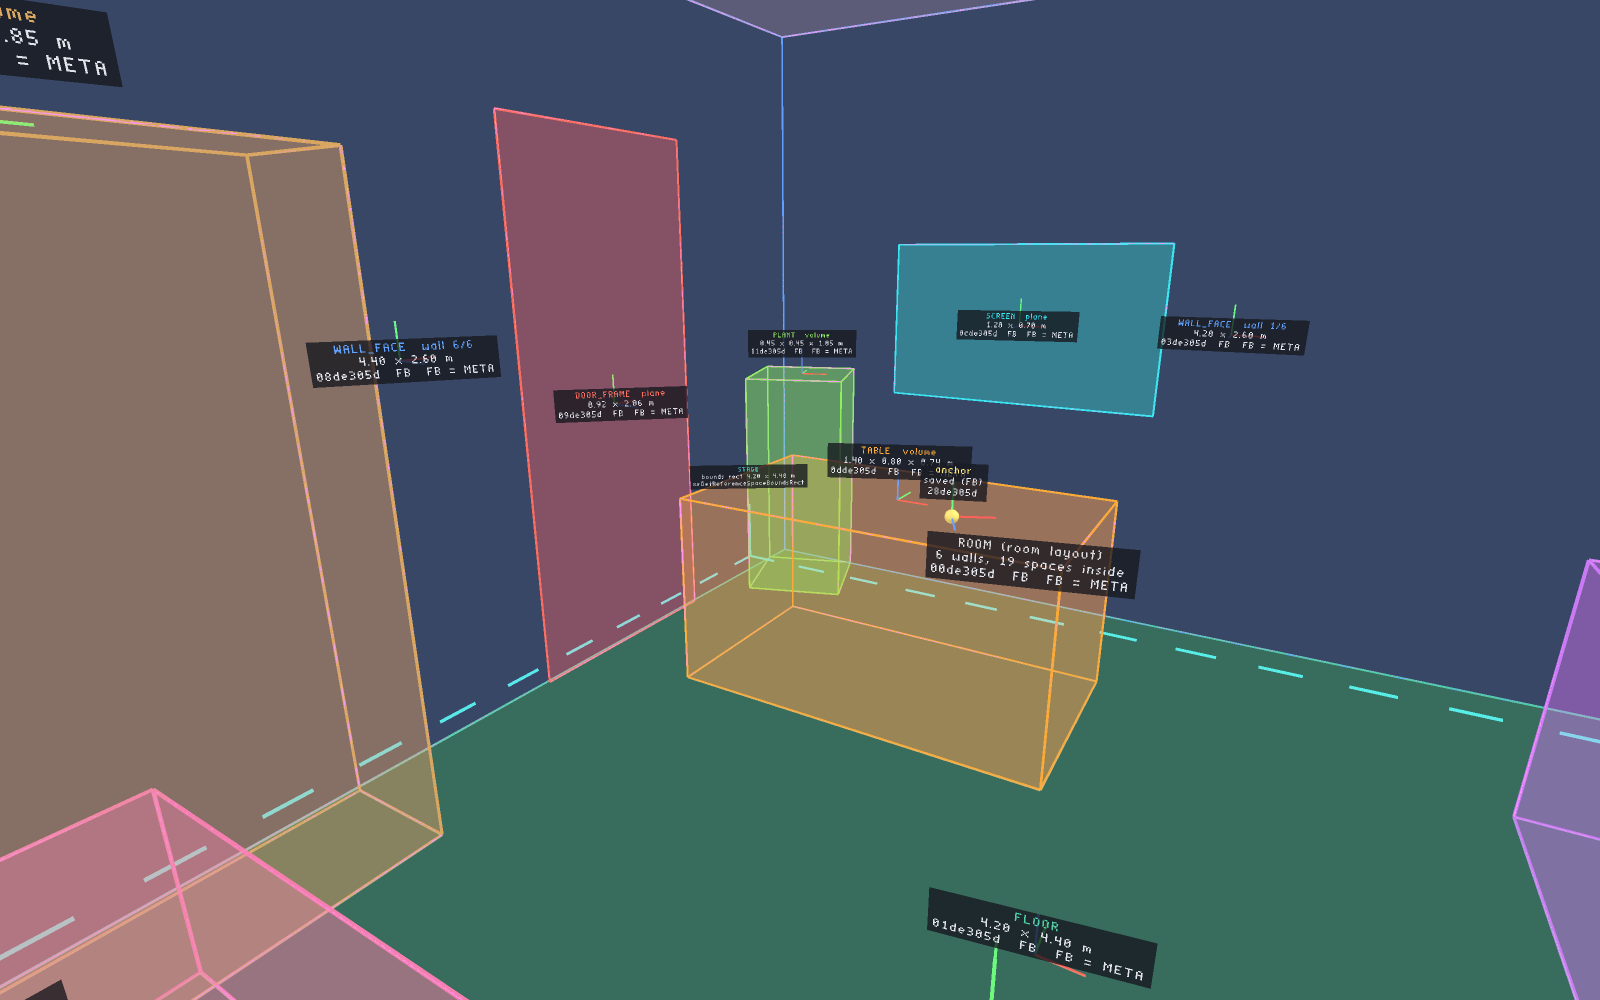
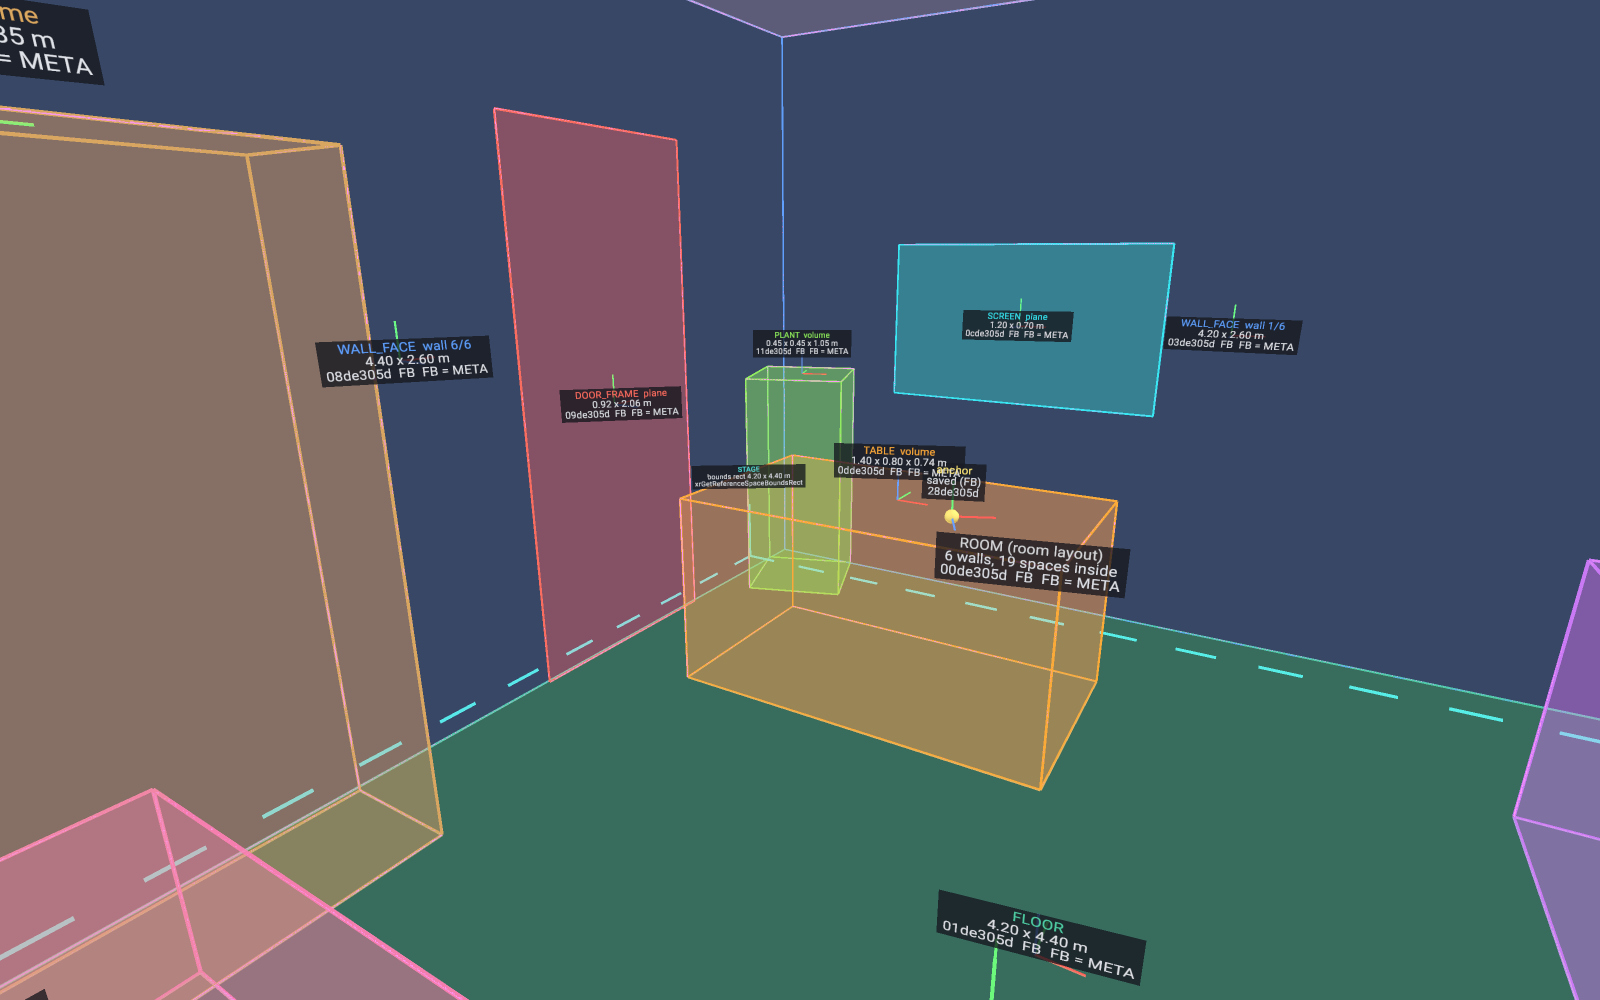
Screenshots with the new panel and the opacity sliders; README

diff --git a/tools/screenshots.py b/tools/screenshots.py
@@ -13,6 +13,7 @@ from PIL import Image
 ROOT = Path(__file__).resolve().parents[1]
 SHOTS = {
     "room": "room",          # inside the room, with the panel
+    "opacity": "opacity",    # dragging the room overlay's opacity slider
     "overview": "overview",  # the whole room, no panel
     "fb-meta": "both",       # FB results with the META results drawn over them
     "mesh": "wire",          # the room mesh as a wireframe

diff --git a/README.md b/README.md
@@ -18,7 +18,7 @@ Steam Frame: use the button (needs [FramePort](https://frameport.app)). Quest: s
 | ![The whole room](docs/screenshots/overview.png) Planes, volumes and the STAGE bounds | ![Room mesh](docs/screenshots/mesh.png) The room mesh as a wireframe |
 | ![FB and META results together](docs/screenshots/fb-meta.png) FB query and META discovery compared | ![Extensions and system properties](docs/screenshots/panel-runtime.png) Extensions, system properties, boundary |
 | ![Spaces table](docs/screenshots/panel-room.png) Every space with its components | ![Anchors](docs/screenshots/panel-anchors.png) Anchors: save, erase, load (FB and META) |
-| ![Call log](docs/screenshots/panel-log.png) Every call, its result and every event | |
+| ![Call log](docs/screenshots/panel-log.png) Every call, its result and every event | ![Opacity sliders](docs/screenshots/opacity.png) The overlay faded to 40 %, the panel to 75 % |
 
 <sub>Screenshots: the PC renderer with a made-up demo room, not a real headset.</sub>
 
@@ -41,7 +41,11 @@ Steam Frame: use the button (needs [FramePort](https://frameport.app)). Quest: s
   (`Android/data/io.github.spoopyghosty0.testquestmr/files`), next to `room-fb.txt` / `room-meta.txt` (what each
   path returned).
 
-Point at the panel and pull the trigger; the thumbstick scrolls lists. A file named `demo` in the files folder shows
+Point at the panel and pull the trigger; the thumbstick scrolls lists. The *Opacity* sliders (hold the trigger and
+drag, or point at one and push the thumbstick sideways for 5 % steps) fade the room visualisation, to compare it with
+the real room (fills and the mesh fade out completely, outlines and label plates keep a faint minimum), and the panel's
+background; both are kept in `settings.txt`. The panel is its own quad layer, rendered at 2 texels per layout unit
+with the system font (Roboto), so its text stays sharp. A file named `demo` in the files folder shows
 the demo room instead of the runtime's.
 
 ## Build
